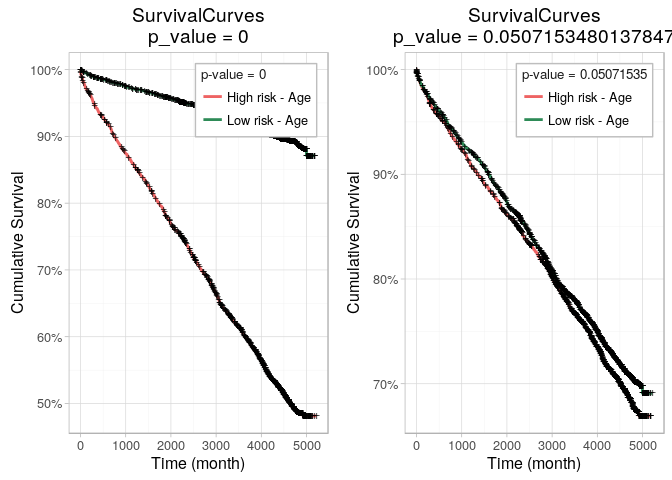
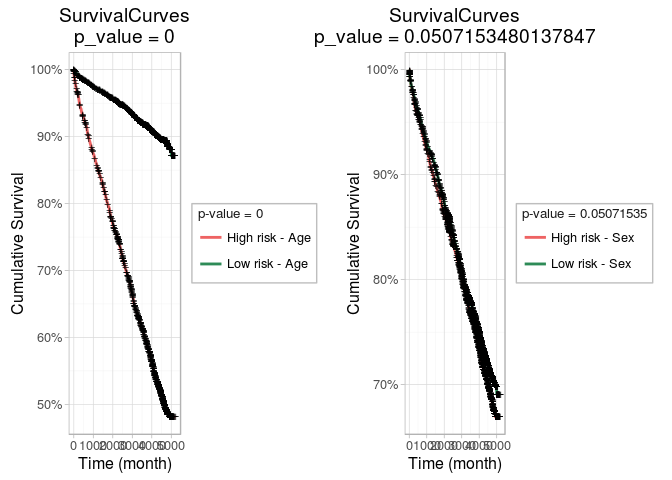
adds balanced data functions

diff --git a/README.md b/README.md
@@ -10,6 +10,7 @@ With personal functions I like to reuse everytime!
 -   my.colors() : My own pallete
 -   my.symbols() : Same with symbols to plots
 -   draw.empty.plot() : Draws an empty plot with grid to add data points or lines afterwards
+-   balanced\_data: get balanced train/test sets and cv folds.
 -   ... check out rest of R folder
 
 Proper
@@ -50,9 +51,9 @@ suppressPackageStartupMessages(library(ggfortify))
 suppressPackageStartupMessages(library(gridExtra))
 data(flchain)
 ydata <- data.frame( time = flchain$futime, status = flchain$death)
-xdata <- cbind(flchain$age, as.numeric(flchain$sex == 'M'), flchain$sample.yr, flchain$kappa)
+xdata <- cbind(flchain$age, as.numeric(flchain$sex == 'M') * 2 + 1, flchain$sample.yr, flchain$kappa)
 page <- draw.kaplan(list(Age= c(1,0,0,0)), xdata = xdata, ydata = ydata)$plot
-psex <- draw.kaplan(list(Age= c(0,1,0,0)), xdata = xdata, ydata = ydata)$plot
+psex <- draw.kaplan(list(Sex= c(0,1,0,0)), xdata = xdata, ydata = ydata)$plot
 grid.arrange(page, psex, ncol = 2)
 ```
 
@@ -64,3 +65,21 @@ draw.kaplan(list(Age= c(1,0,0,0), Sex = c(0,1,0,0), yr = c(0,0,1,0), kappa = c(0
 ```
 
 ![](README-draw.kaplan-2.png)
+
+Balanced test/train dataset
+---------------------------
+
+This is specially relevant in survival or binary output with few cases of one category that need to be well distributed among test/train datasets or in cross-validation folds.
+
+Example below sets aside 90% of the data to the training set. As samples are already divided in two sets (`set1` and `set2`), it performs the 90% separation for each and then joins (with option `join.all = T`) the result.
+
+``` r
+set1 <- c(T,T,T,T,T,T,T,T,F,T,T,T,T,T,T,T,T,T,F,T)
+set2 <- !set1
+balanced.train.and.test(set1, set2, train.perc = .9, join.all = T)
+#> $train
+#>  [1]  1  2  3  4  5  7  8 10 11 12 13 14 15 17 18 20  9
+#> 
+#> $test
+#> [1]  6 16 19
+```
